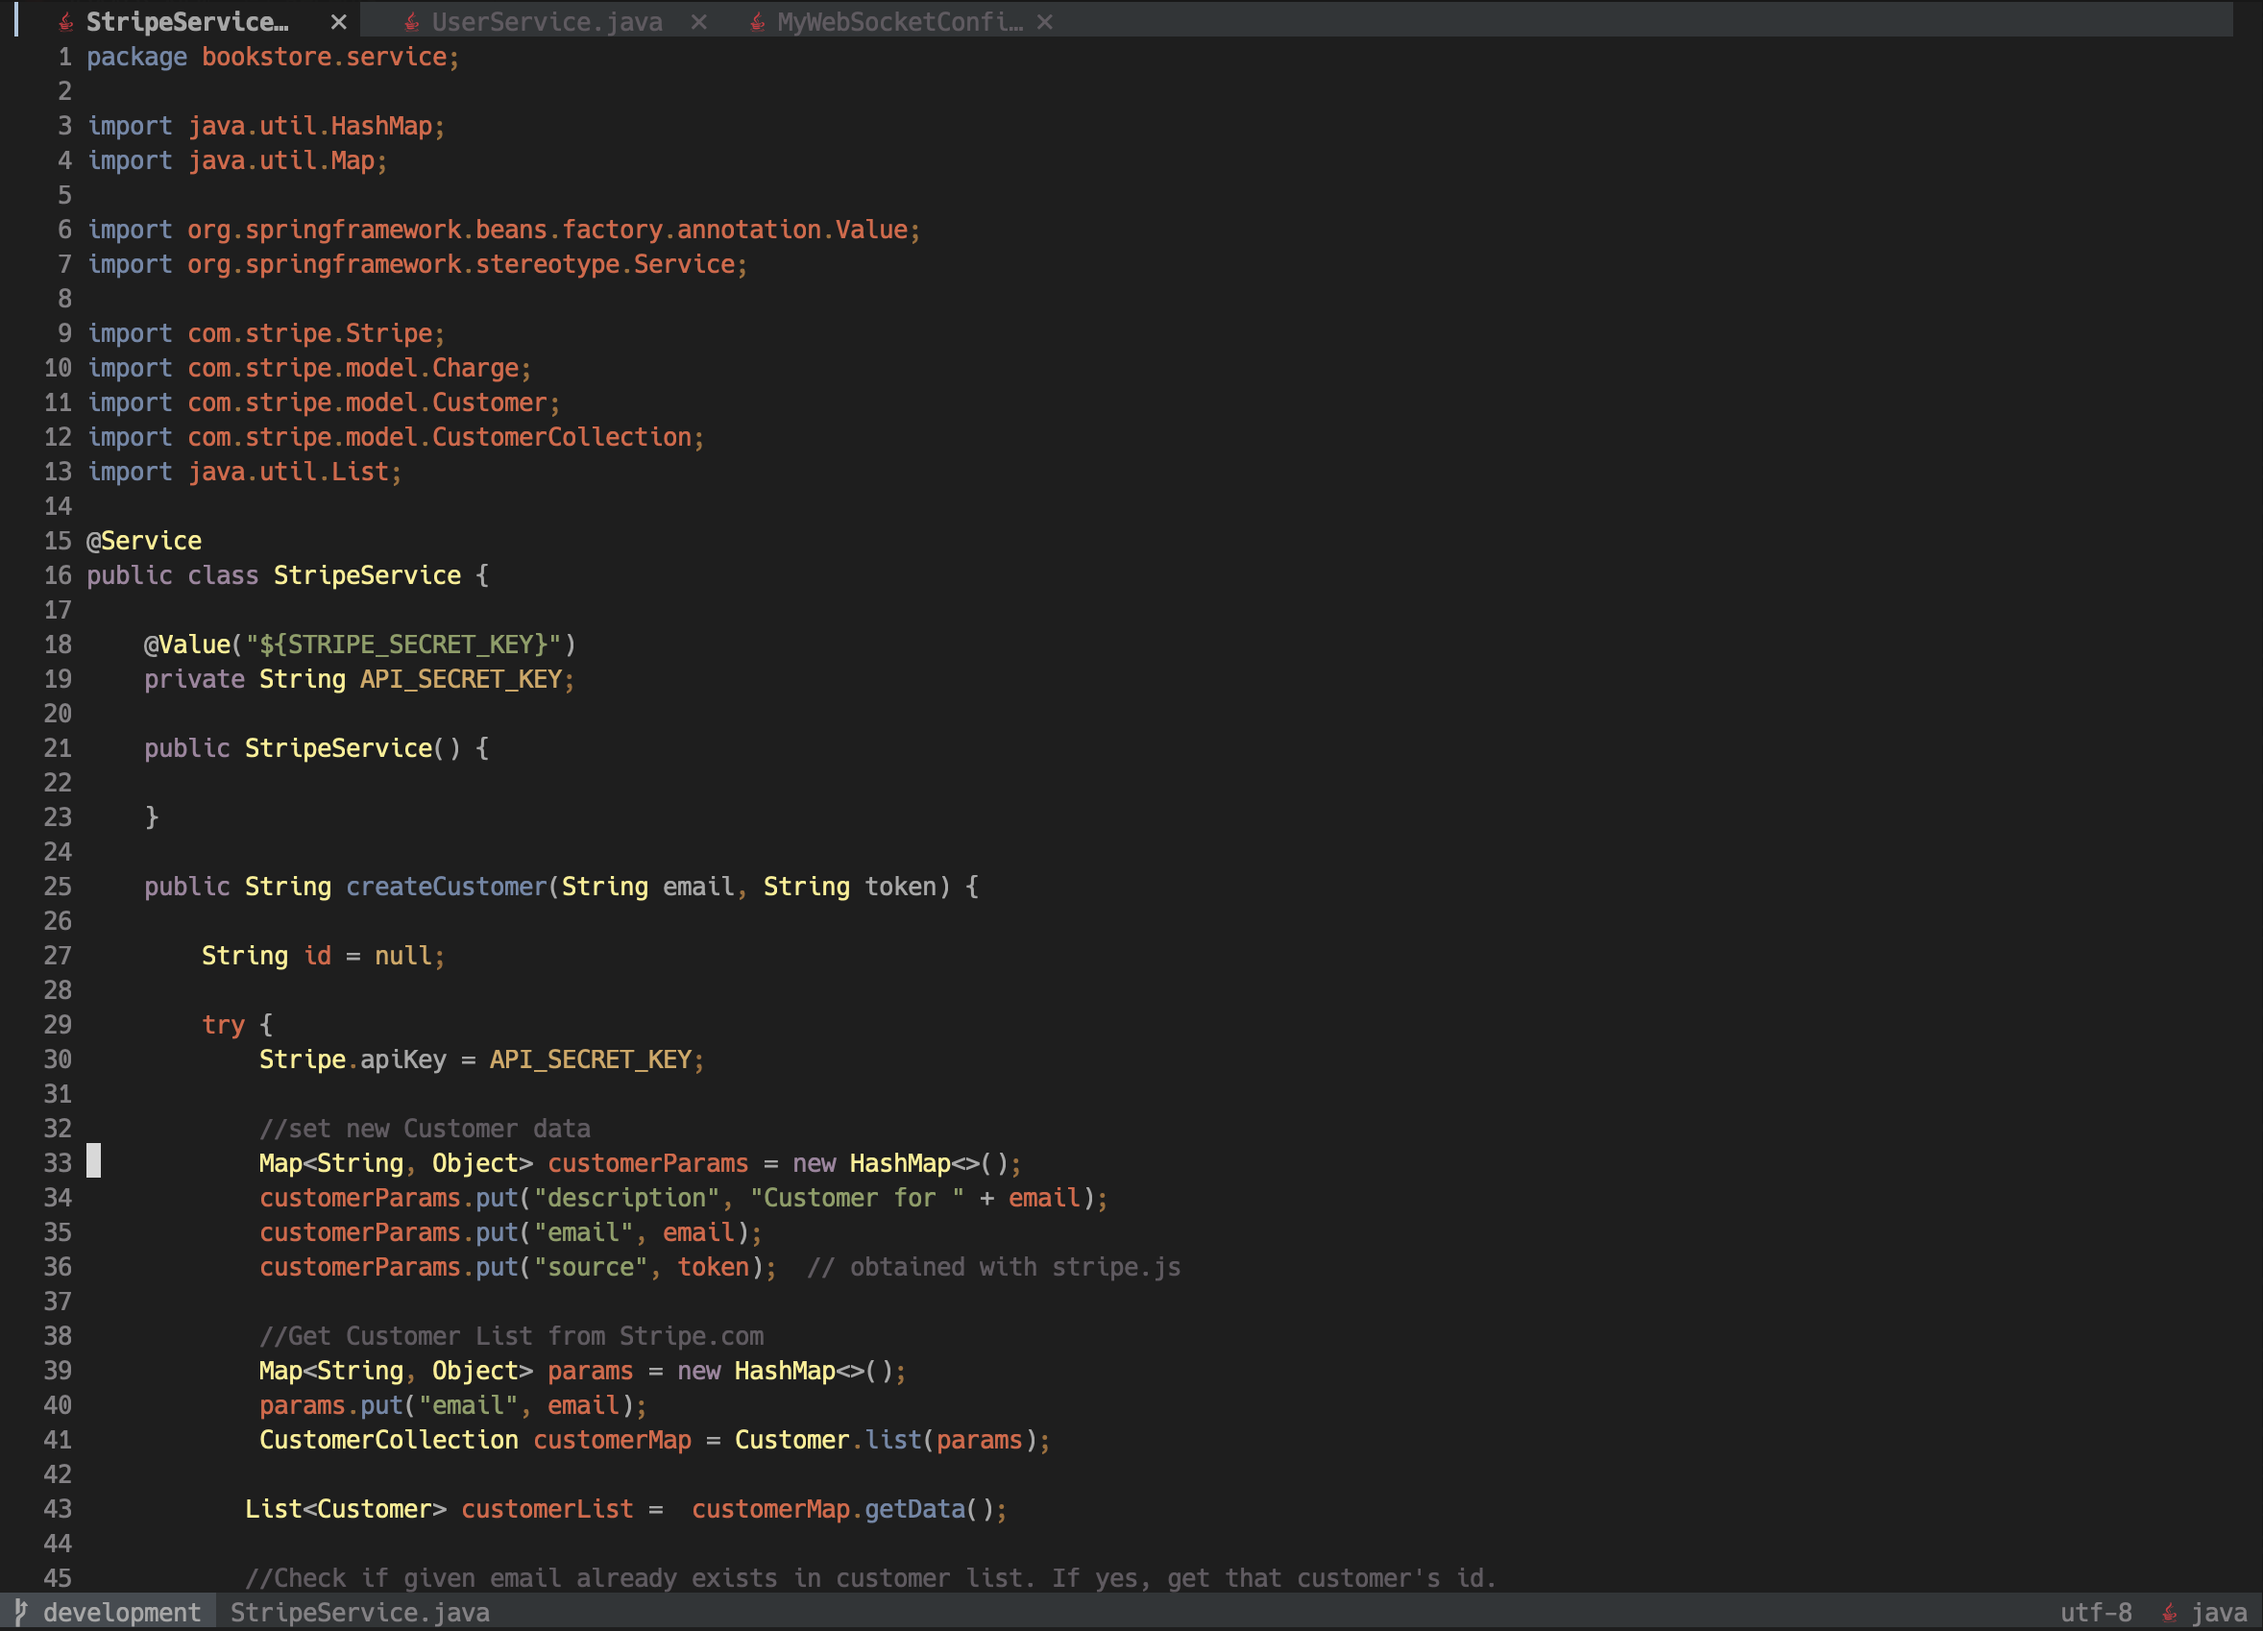
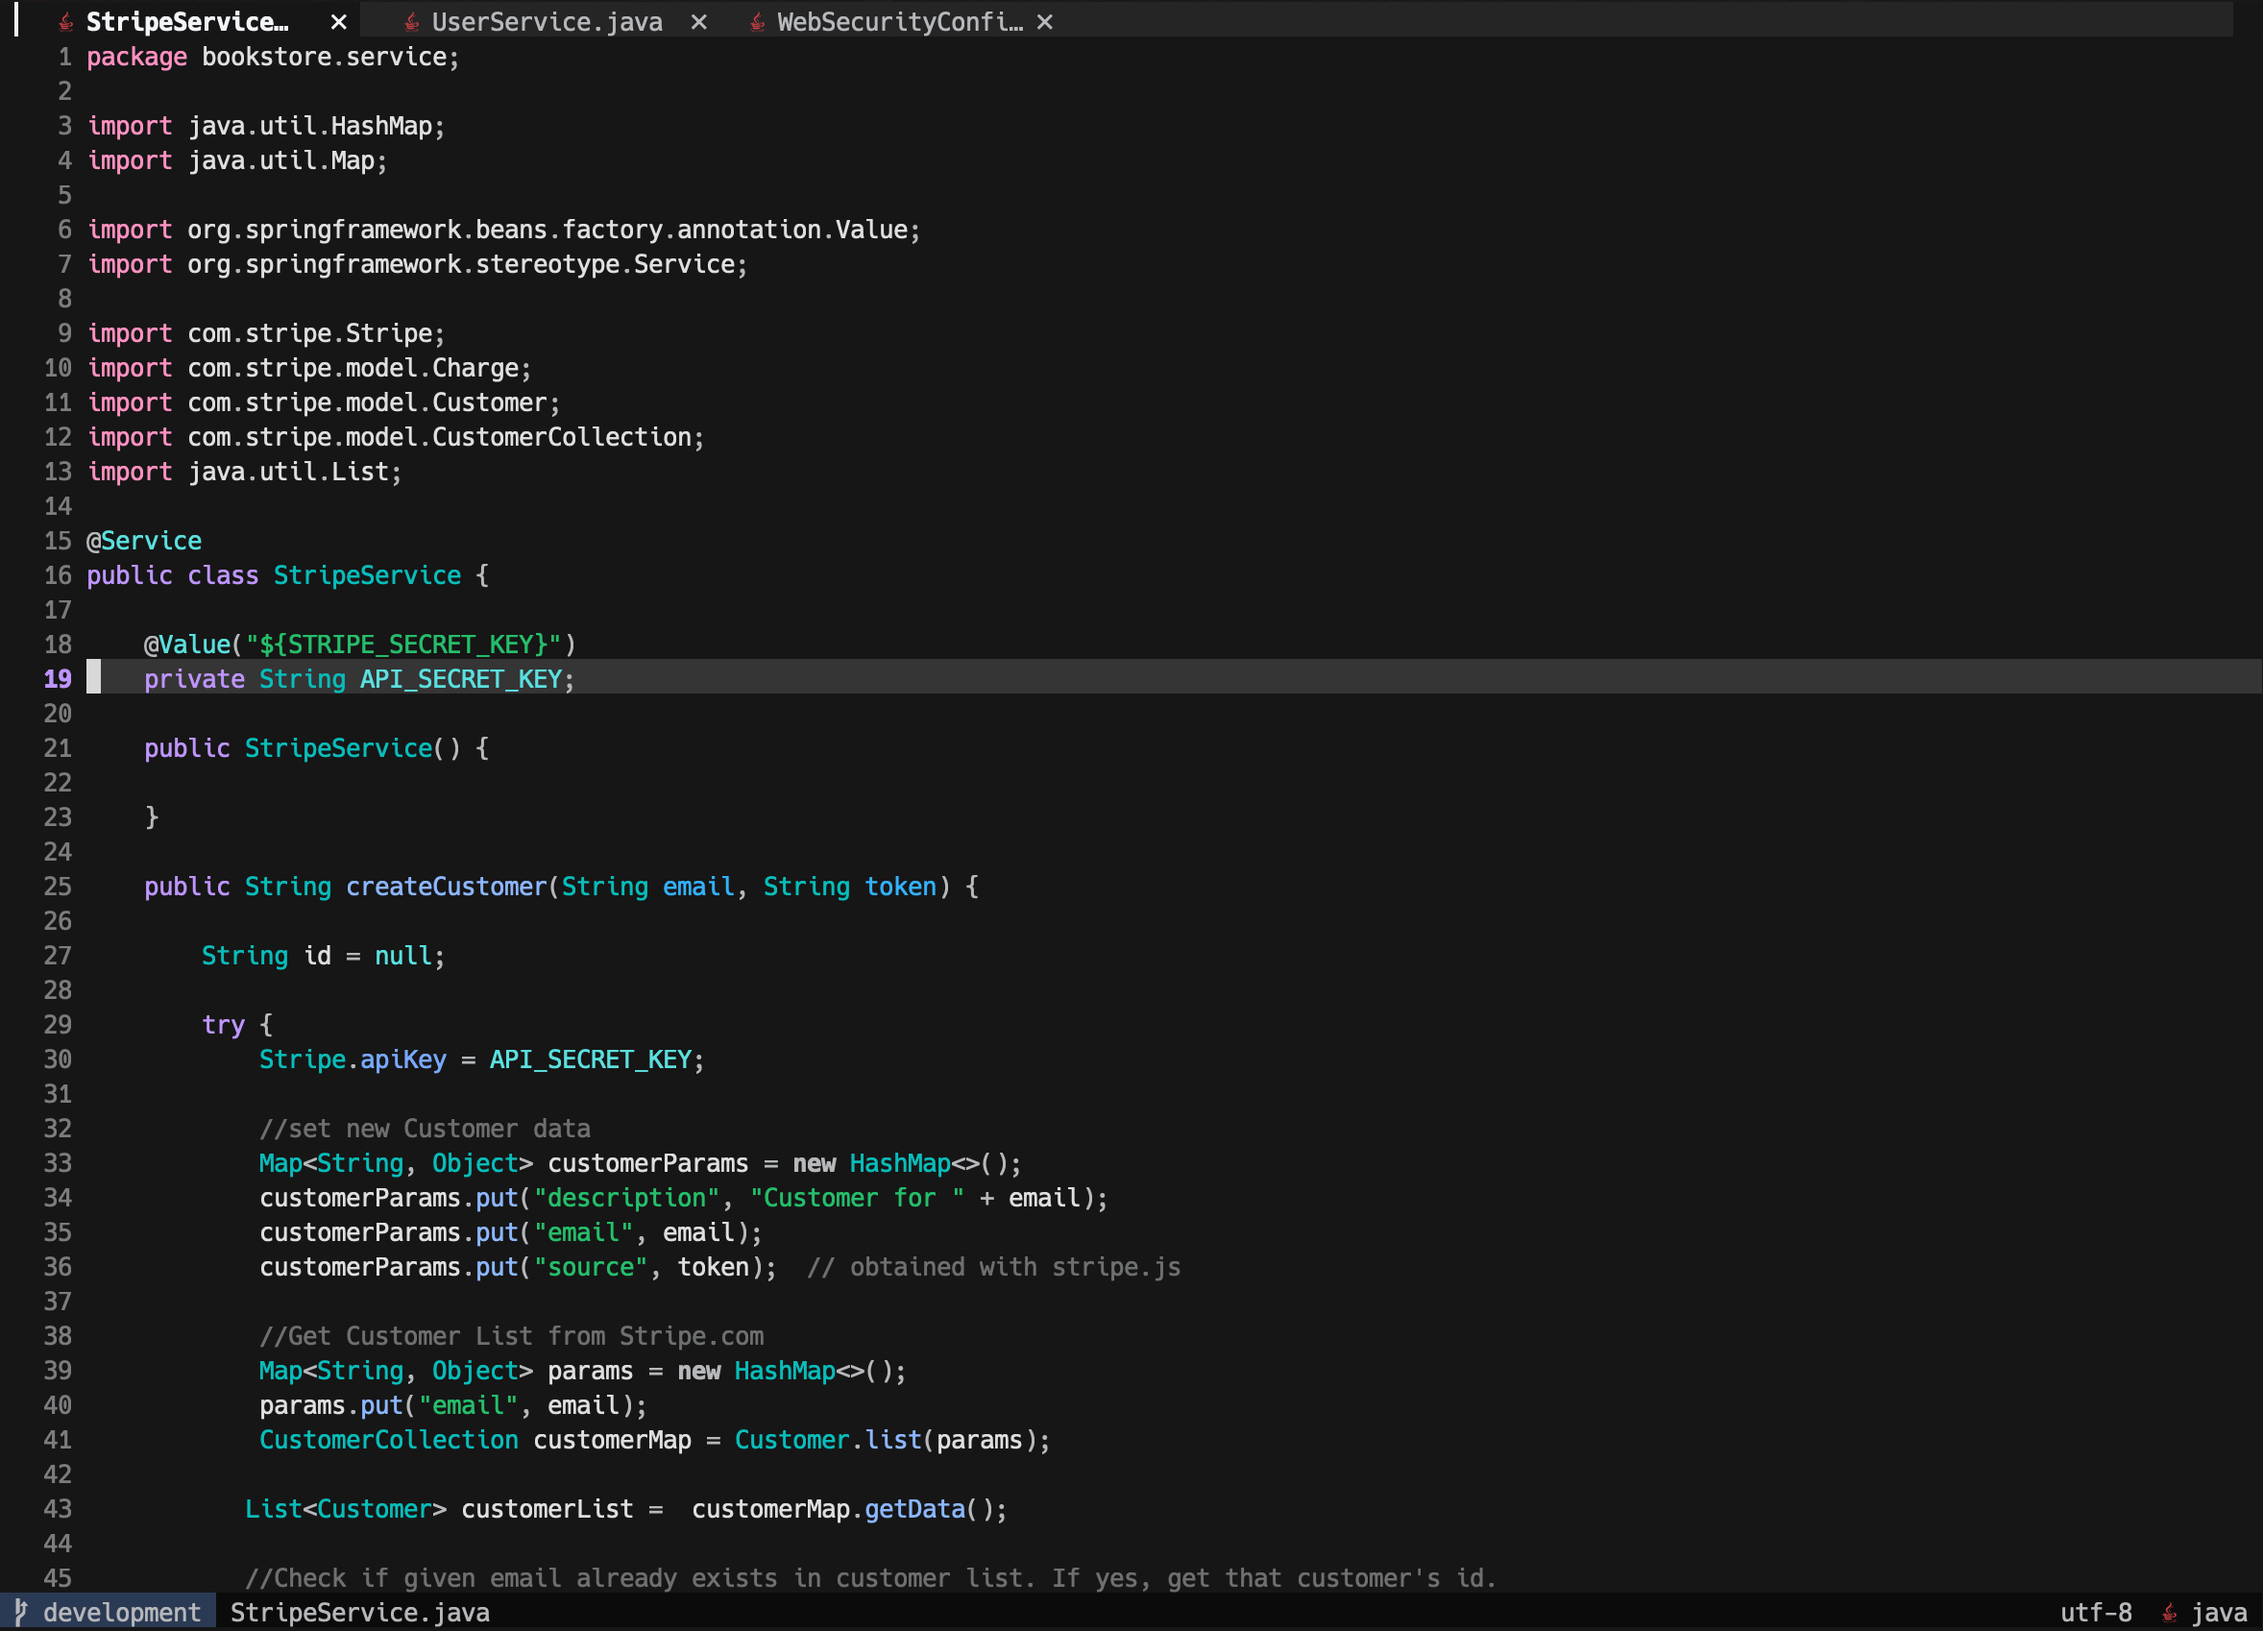
Carbonfox, maven, neoterm

diff --git a/README.md b/README.md
@@ -31,23 +31,25 @@ I encourage you to try out this config and adjust it to your preferences.
 
 - Native LSP
 - Syntax highlighting via nvim-treesitter
+- Java code runner with jaq
+- Java Maven commands with the help of neoterm
 - Java Unit Testing with vscode-java-test
 - Explore files via nvim-tree 
 - Fuzzy finder via Telescope
-- Zen mode for distraction-free coding.
+- Zen mode for distraction-free coding
 - Notes with Markdown
 
 ## Colorschemes
 
 Supported colorschemes are:
 
-1. All the colorschemes from https://github.com/LunarVim/Colorschemes 
-2. All base16 themes (default is base16-twilight).
-3. Doom-one (port from doom-emacs).
-4. Nightfox.
-5. oxocarbon-lua.
+1. Nightfox themes (https://github.com/EdenEast/nightfox.nvim) - Default is carbonfox.
+2. All the colorschemes from https://github.com/LunarVim/Colorschemes. 
+3. All base16 themes.
+4. Doom-one (port from doom-emacs).
 
 Change colorscheme while editing by SPC f c.
+Change default colorscheme in colorscheme.lua file.
 
 ## Dependencies
 
@@ -146,14 +148,15 @@ Release version
 ### 1.04 (20.09.2022)
 
 1. Added BufOnly plugin for better mass buffer closure performance.
-2. Added norg plugin for notes (works only for Neovim version 0.8.0++)
-3. Added more ensured installed treesitter parsers (json, javascript, css, typescript, bash, python)
+2. Added more ensured installed treesitter parsers (json, javascript, css, typescript, bash, python)
 
 ### 1.1 (24.09.2022) - Major update
 
 1. Migrated to mason.nvim (https://github.com/williamboman/mason.nvim/) from nvim-lsp-installer.
-2. Added jaq code runner (https://github.com/is0n/jaq-nvim).
-4. Added more colorschemes to choose from (nightfox and oxocarbon-lua).
-5. Show absolute code line numbers by default.
-6. Removed code line indicator from statusline as unneccesary.
-7. Cleaned up many keymaps
+2. Added jaq code runner (https://github.com/is0n/jaq-nvim), which can be used to run Java files.
+3. Added Neoterm to run terminal commands in a new buffer.
+4. Added keymaps to run Maven commands.
+5. Changed default colorscheme (carbonfox).
+6. Show absolute code line numbers by default.
+7. Removed code line indicator from statusline as unneccesary.
+8. Cleaned up many old keymaps.
